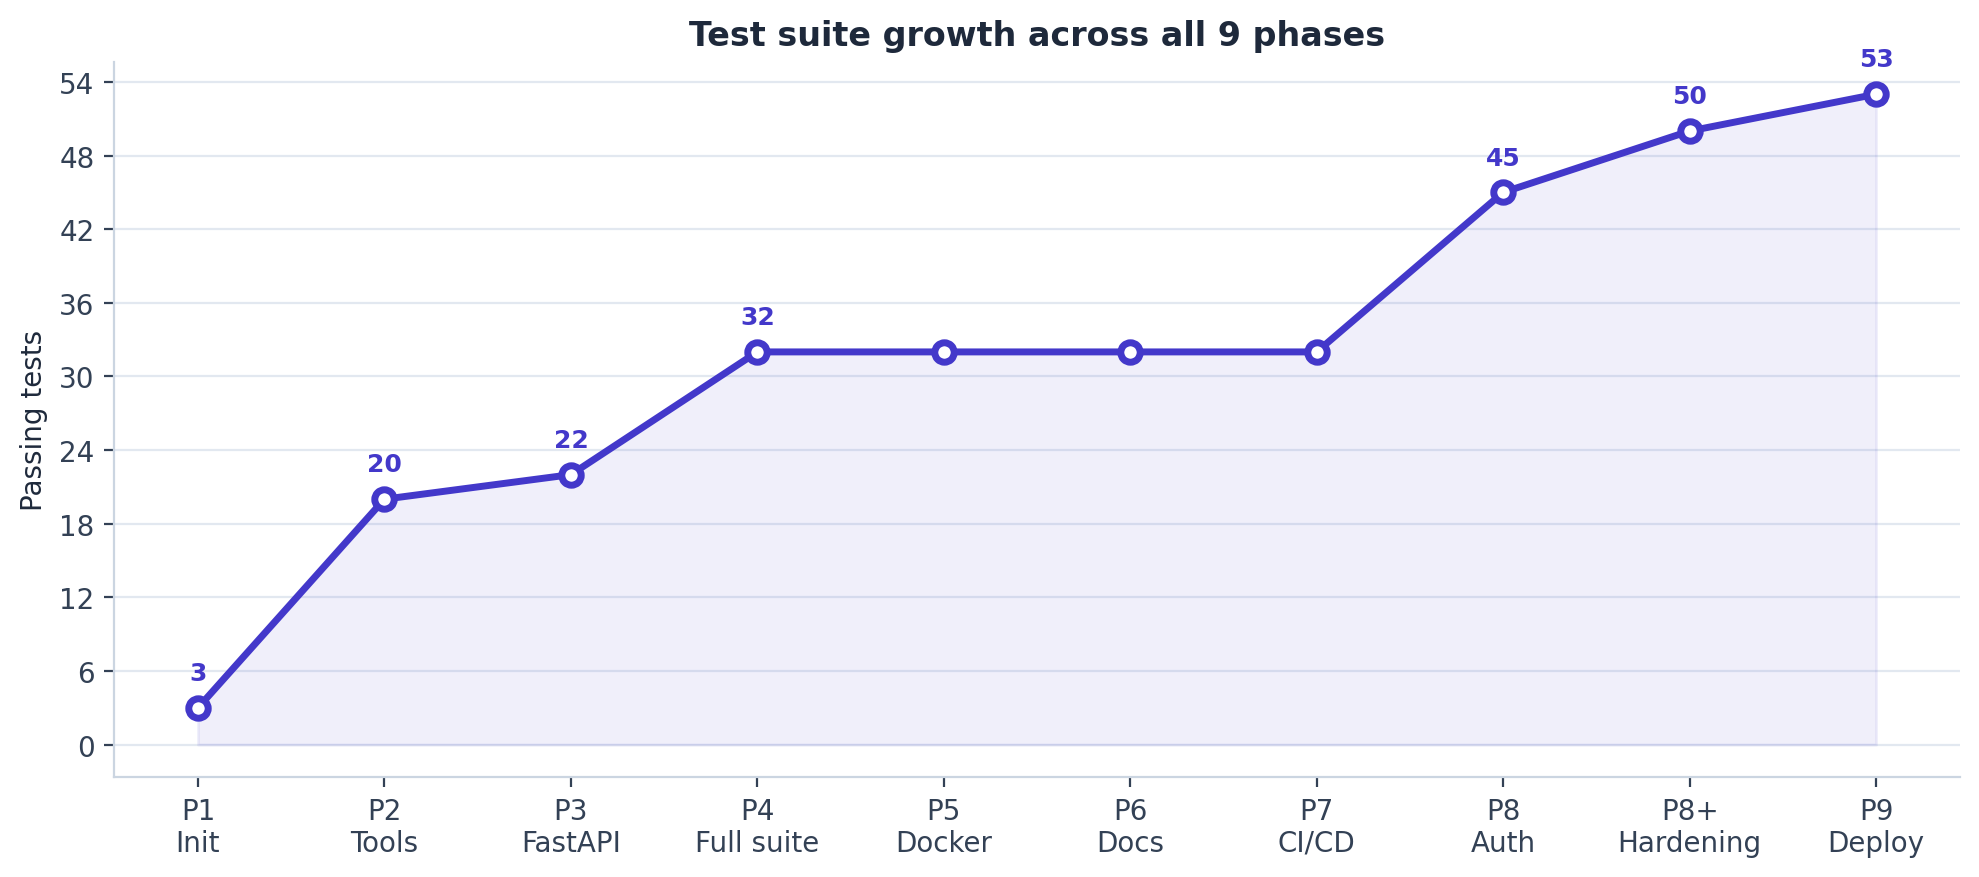
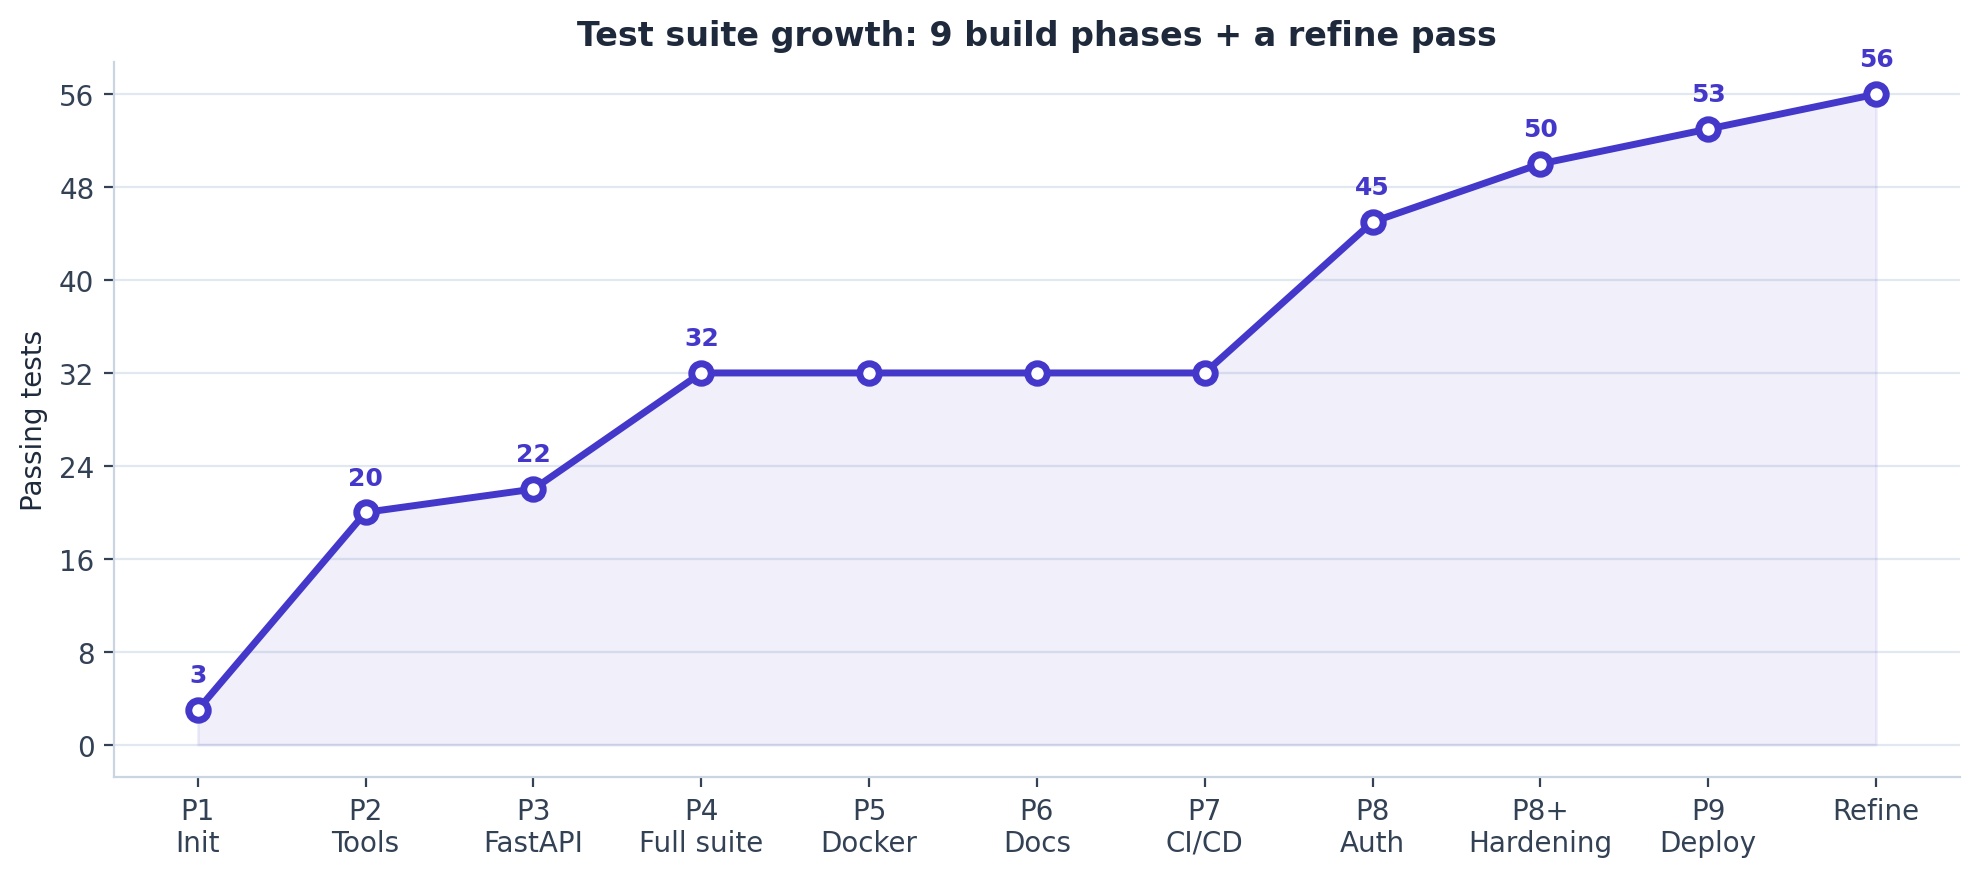
Add files via upload

diff --git a/scripts/generate_charts.py b/scripts/generate_charts.py
@@ -63,9 +63,9 @@ def savefig(fig, name):
 phases = [
     "P1\nInit", "P2\nTools", "P3\nFastAPI", "P4\nFull suite",
     "P5\nDocker", "P6\nDocs", "P7\nCI/CD", "P8\nAuth",
-    "P8+\nHardening", "P9\nDeploy",
+    "P8+\nHardening", "P9\nDeploy", "Refine",
 ]
-counts = [3, 20, 22, 32, 32, 32, 32, 45, 50, 53]
+counts = [3, 20, 22, 32, 32, 32, 32, 45, 50, 53, 56]
 
 fig, ax = plt.subplots(figsize=(10, 4.5))
 ax.plot(phases, counts, color=INDIGO, linewidth=2.5, marker="o", markersize=7,
@@ -76,7 +76,7 @@ for i, c in enumerate(counts):
         ax.annotate(str(c), (i, c), textcoords="offset points", xytext=(0, 10),
                     ha="center", fontsize=9, fontweight="bold", color=INDIGO)
 ax.set_ylabel("Passing tests")
-ax.set_title("Test suite growth across all 9 phases")
+ax.set_title("Test suite growth: 9 build phases + a refine pass")
 ax.spines[["top", "right"]].set_visible(False)
 ax.yaxis.set_major_locator(MaxNLocator(integer=True))
 ax.grid(axis="y", color="#e2e8f0", linewidth=0.8, zorder=0)
@@ -88,7 +88,7 @@ savefig(fig, "test_growth")
 # --- Chart 2: statements by architectural layer (100% covered, all of it) -
 layers = ["services", "tools", "models", "transport\n(server/asgi)",
           "config", "security", "api", "utils"]
-statements = [59, 42, 38, 35, 32, 28, 11, 9]
+statements = [59, 42, 38, 36, 32, 28, 11, 9]
 colors = [GREEN, ORANGE, GREEN, INDIGO, SLATE, RED, ORANGE, SLATE]
 
 fig, ax = plt.subplots(figsize=(9, 5))
@@ -114,7 +114,7 @@ files = [
     ("test_auth.py", 15), ("test_config_settings.py", 11),
     ("test_tools_registration.py", 6), ("test_conversion_service.py", 5),
     ("test_web_service.py", 5), ("test_text_analysis_service.py", 4),
-    ("test_bootstrap.py", 3), ("test_asgi.py", 2), ("test_main_entrypoint.py", 2),
+    ("test_bootstrap.py", 3), ("test_asgi.py", 5), ("test_main_entrypoint.py", 2),
 ]
 files.sort(key=lambda x: x[1])
 names = [f[0] for f in files]
@@ -124,7 +124,7 @@ fig, ax = plt.subplots(figsize=(9, 5))
 y_pos = range(len(names))
 ax.barh(y_pos, vals, color=INDIGO, height=0.6, zorder=3, alpha=0.85)
 ax.set_yticks(y_pos, labels=names, fontfamily="monospace", fontsize=9)
-ax.set_xlabel("Number of tests  (53 total)")
+ax.set_xlabel("Number of tests  (56 total)")
 ax.set_title("Tests per file")
 for i, v in enumerate(vals):
     ax.text(v + 0.15, i, str(v), va="center", fontsize=9, fontweight="bold")

diff --git a/tests/test_asgi.py b/tests/test_asgi.py
@@ -51,3 +51,39 @@ def test_mcp_endpoint_is_mounted_and_session_manager_is_running() -> None:
 
     assert response.status_code == 400
     assert "session" in response.json()["error"]["message"].lower()
+
+
+def test_docs_are_available_outside_production() -> None:
+    settings = Settings(_env_file=None, environment="development")
+
+    with _client(settings) as client:
+        docs = client.get("/docs")
+        openapi = client.get("/openapi.json")
+
+    assert docs.status_code == 200
+    assert openapi.status_code == 200
+
+
+def test_docs_are_disabled_in_production() -> None:
+    settings = Settings(_env_file=None, environment="production")
+
+    with _client(settings) as client:
+        docs = client.get("/docs")
+        redoc = client.get("/redoc")
+        openapi = client.get("/openapi.json")
+
+    assert docs.status_code == 404
+    assert redoc.status_code == 404
+    assert openapi.status_code == 404
+
+
+def test_health_endpoint_is_unaffected_by_production_docs_gating() -> None:
+    """/health has to keep working in production regardless -- it's the
+    one route infrastructure actually depends on.
+    """
+    settings = Settings(_env_file=None, environment="production")
+
+    with _client(settings) as client:
+        response = client.get("/health")
+
+    assert response.status_code == 200

diff --git a/app/config/settings.py b/app/config/settings.py
@@ -14,7 +14,7 @@ from typing import Literal
 from pydantic import AliasChoices, Field
 from pydantic_settings import BaseSettings, SettingsConfigDict
 
-TransportName = Literal["stdio", "http", "sse"]
+TransportName = Literal["stdio", "http"]
 Environment = Literal["development", "staging", "production"]
 LogLevel = Literal["DEBUG", "INFO", "WARNING", "ERROR", "CRITICAL"]
 
@@ -46,7 +46,8 @@ class Settings(BaseSettings):
 
     # Transport for the MCP server itself. "stdio" is used when a client
     # spawns this process directly; "http" runs it as a standalone network
-    # service, which is what the Docker deployment (a later phase) expects.
+    # service, which is what the Docker/Fly/Cloud Run/Kubernetes/Railway
+    # deployments in this repo all expect.
     transport: TransportName = "http"
     host: str = "0.0.0.0"
     # Some PaaS platforms (Railway, Heroku) assign a port dynamically and

diff --git a/app/asgi.py b/app/asgi.py
@@ -38,6 +38,13 @@ def create_asgi_app(mcp: FastMCP, settings: Settings) -> FastAPI:
         title=settings.app_name,
         version=settings.app_version,
         lifespan=mcp_app.lifespan,
+        # /docs, /redoc, and /openapi.json are FastAPI's defaults and were
+        # exposed unconditionally here for a while -- fine for the one
+        # trivial route this app actually has (/health), but not something
+        # a production deployment should serve publicly by default.
+        docs_url=None if settings.is_production else "/docs",
+        redoc_url=None if settings.is_production else "/redoc",
+        openapi_url=None if settings.is_production else "/openapi.json",
     )
     # Route handlers resolve settings via `Depends(get_settings)`, which
     # would otherwise ignore the `settings` passed in here and fall back to

diff --git a/app/server.py b/app/server.py
@@ -1,6 +1,6 @@
 """MCP server application factory and process entrypoint.
 
-Phase 2 wires the tool registry (`app.tools.ALL_TOOLS`) into the FastMCP
+The tool registry (`app.tools.ALL_TOOLS`) is wired into the FastMCP
 instance at construction time. See app/tools/__init__.py for why tools are
 built standalone rather than via an `@mcp.tool` decorator.
 """

diff --git a/README.md b/README.md
@@ -5,7 +5,7 @@
 ![Python](https://img.shields.io/badge/python-3.12%2B-3776AB?logo=python&logoColor=white)
 ![FastMCP](https://img.shields.io/badge/FastMCP-3.x-6366f1)
 ![FastAPI](https://img.shields.io/badge/FastAPI-mounted-009688?logo=fastapi&logoColor=white)
-![Tests](https://img.shields.io/badge/tests-53%20passing-brightgreen)
+![Tests](https://img.shields.io/badge/tests-56%20passing-brightgreen)
 ![Coverage](https://img.shields.io/badge/coverage-100%25-brightgreen)
 ![Docker](https://img.shields.io/badge/docker-multi--stage-2496ED?logo=docker&logoColor=white)
 ![CI](https://img.shields.io/badge/CI-GitHub%20Actions-2088FF?logo=githubactions&logoColor=white)
@@ -130,7 +130,7 @@ app/
 ├── tools/          # MCP tool adapters: schema, metadata, ValueError -> ToolError translation
 ├── services/       # Pure business logic. No FastMCP import, anywhere.
 └── models/         # Pydantic schemas shared by tools/services/api
-tests/              # 53 tests, 100% line coverage (unit + integration, no real network calls)
+tests/              # 56 tests, 100% line coverage (unit + integration, no real network calls)
 ```
 
 ## Request lifecycle
@@ -374,7 +374,7 @@ one. Replace `OWNER` in each file with the actual GitHub owner/repo.
 | **Fly.io** | [`fly.toml`](fly.toml) | Fastest path to a live URL. `fly launch --no-deploy` once, then `fly deploy`. `kill_signal = "SIGTERM"` is set explicitly — Fly's own default is SIGINT, and this keeps shutdown behavior identical across all targets. |
 | **Cloud Run** | [`deploy/cloudrun/service.yaml`](deploy/cloudrun/service.yaml) | Declarative Knative spec; `gcloud run services replace` to apply. Startup/liveness probes against `/health` mirror Kubernetes probe syntax directly. |
 | **Kubernetes** | [`k8s/`](k8s/) | `deployment.yaml` (security-hardened: non-root uid 1000 matching the Dockerfile, read-only root filesystem, all capabilities dropped, a `preStop` sleep so rolling updates drain cleanly), `service.yaml`, `configmap.yaml`, `hpa.yaml` (2-10 replicas on 70% CPU), and `secret.example.yaml` — a template, deliberately excluded from `kustomization.yaml` so it's never accidentally applied as-is. `kubectl apply -k k8s/`. |
-| **Railway** | [`railway.json`](railway.json) | Detects the Dockerfile directly — connect the repo and it deploys, no GHCR step needed. `restartPolicyType: "ON_FAILURE"`, not `"ALWAYS"`: the latter restarts even on an intentional shutdown, which isn't what you want for a normal deploy/redeploy cycle. |
+| **Railway** | [`railway.json`](railway.json) | Detects the Dockerfile directly — connect the repo and it deploys, no GHCR step needed. `restartPolicyType: "ON_FAILURE"`, not `"ALWAYS"`: the latter restarts even on an intentional shutdown, which isn't what you want for a normal deploy/redeploy cycle. Unlike the other three, `MCP_ENVIRONMENT=production` isn't set anywhere in this repo for Railway — Railway variables live in its dashboard/CLI, not in `railway.json` — so set it there if you want `/docs` disabled (see [Configuration](#configuration)) the same way it already is on Fly/Cloud Run/Kubernetes. |
 
 **Railway specifically needed a real code fix, not just a config file.**
 Fly/Cloud Run/Kubernetes all let *you* pick a fixed port and configure the
@@ -429,7 +429,7 @@ full, commented list. The ones worth knowing about:
 | --- | --- | --- |
 | `MCP_TRANSPORT` | `http` | `stdio` for direct process spawning, `http` for a network service |
 | `MCP_HOST` / `MCP_PORT` | `0.0.0.0` / `8000` | Only used for the `http` transport |
-| `MCP_ENVIRONMENT` | `development` | `development` \| `staging` \| `production` |
+| `MCP_ENVIRONMENT` | `development` | `development` \| `staging` \| `production`. `production` also disables `/docs`, `/redoc`, and `/openapi.json`. |
 | `MCP_LOG_LEVEL` | `INFO` | Standard library log level name |
 | `MCP_API_KEYS` | *(empty)* | Comma-separated bearer tokens; empty disables auth entirely — see [Authentication](#authentication) |
 | `FASTMCP_CHECK_FOR_UPDATES` | `stable` | FastMCP pings PyPI on startup by default; set `off` in production |
@@ -476,7 +476,7 @@ async with Client(mcp) as client:
 ## Testing
 
 ```bash
-uv run pytest              # 53 tests, coverage report on by default (see pyproject.toml)
+uv run pytest              # 56 tests, coverage report on by default (see pyproject.toml)
 uv run ruff check .
 uv run mypy app
 ```
@@ -491,14 +491,19 @@ Real milestones, not a smoothed curve — Phases 5-7 (Docker, docs, CI/CD)
 genuinely added no new Python tests, and the chart shows that flat instead
 of hiding it. The two jumps are Phase 4 (closing coverage gaps found by
 `--cov-report=term-missing`) and Phase 8 (auth plus the masked-logging
-hardening that came out of testing it).
+hardening that came out of testing it). The final point is a refine pass
+over the finished project — see below.
 
-Coverage is 100% across all 255 statements in `app/`. That number is a
-byproduct of testing real behavior (every tool's error path, the settings
-validation, the `main()` transport dispatch, the FastAPI lifespan wiring),
-not a target chased for its own sake — the last few percentage points came
-directly from `pytest --cov-report=term-missing` pointing at genuine gaps,
-including two real bugs it caught:
+Coverage is 100% across all 255 statements in `app/`, and `pyproject.toml`
+sets `fail_under = 100` so that claim is enforced, not just true today by
+coincidence: `uv run pytest` exits non-zero the moment coverage drops below
+100%, verified with a positive control (a deliberately uncovered function,
+confirmed to fail the build, then removed) rather than taken on faith. That
+number is a byproduct of testing real behavior (every tool's error path,
+the settings validation, the `main()` transport dispatch, the FastAPI
+lifespan wiring), not a target chased for its own sake — the last few
+percentage points came directly from `pytest --cov-report=term-missing`
+pointing at genuine gaps, including two real bugs it caught:
 
 - `create_asgi_app(settings)` accepted a `settings` argument that the
   health route was silently ignoring in favor of the global cached
@@ -514,11 +519,23 @@ including two real bugs it caught:
   nothing. Both are fixed: `create_asgi_app(mcp, settings)` now takes the
   server instance explicitly, and auth tests go through real HTTP via
   `TestClient` with an actual `Authorization` header (`tests/test_auth.py`).
+- A later refine pass over the (by then "finished") project found two
+  more, of a different kind — not missing tests, but dead or misleading
+  surface area that had accumulated: `is_production` was defined, tested,
+  and never actually used anywhere, and `MCP_TRANSPORT` accepted `"sse"`
+  as a value that silently did nothing (never forwarded to
+  `mcp.http_app()`). Fixed by wiring `is_production` to actually disable
+  FastAPI's `/docs`, `/redoc`, and `/openapi.json` in production, and by
+  removing `"sse"` rather than leaving an option on that doesn't work —
+  offering a config value that's silently a no-op is worse than not
+  offering it. Also caught, in the same pass: a Dockerfile comment
+  describing the `MCP_PORT`/`PORT` fallback precedence *backwards* from
+  what the code directly below it actually did.
 
 <p align="center">
-  <img src="assets/coverage_by_layer.png" width="720" alt="Horizontal bar chart of statement counts by architectural layer: services 59, tools 42, models 38, transport 35, config 32, security 28, api 11, utils 9, all at 100 percent coverage">
+  <img src="assets/coverage_by_layer.png" width="720" alt="Horizontal bar chart of statement counts by architectural layer: services 59, tools 42, models 38, transport 36, config 32, security 28, api 11, utils 9, all at 100 percent coverage">
   <br>
-  <img src="assets/tests_per_file.png" width="720" alt="Horizontal bar chart of test counts per test file, from test_asgi.py at 2 tests to test_auth.py at 15 tests">
+  <img src="assets/tests_per_file.png" width="720" alt="Horizontal bar chart of test counts per test file, from test_main_entrypoint.py at 2 tests to test_auth.py at 15 tests">
 </p>
 
 Bar colors in the first chart match the architecture diagram above —
@@ -555,6 +572,7 @@ whatever environment runs the suite.
 - [x] Phase 7 — CI/CD (GitHub Actions: lint/type/test + Docker build & smoke test)
 - [x] Phase 8 — Opt-in API-key authentication for the MCP endpoint (+ masked audit logging, `gitleaks` in CI)
 - [x] Phase 9 — Deployability: GHCR image publish + Fly.io / Cloud Run / Kubernetes / Railway configs
+- [x] Refine pass — no new features; closed gaps a fresh critical read found in the "finished" project (dead `is_production` property now wired to gate `/docs` in production, a `MCP_TRANSPORT` value that silently did nothing, a backwards precedence comment in the Dockerfile, `fail_under = 100` so the coverage claim is enforced rather than just currently true)
 
 ## License
 
